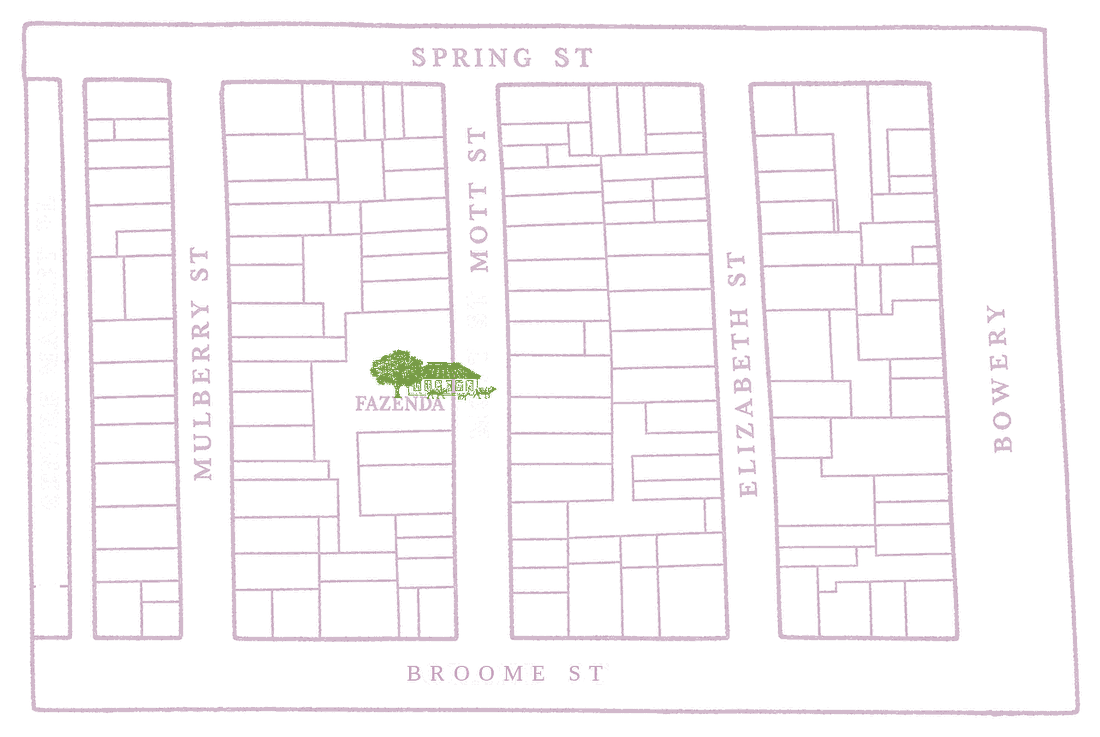
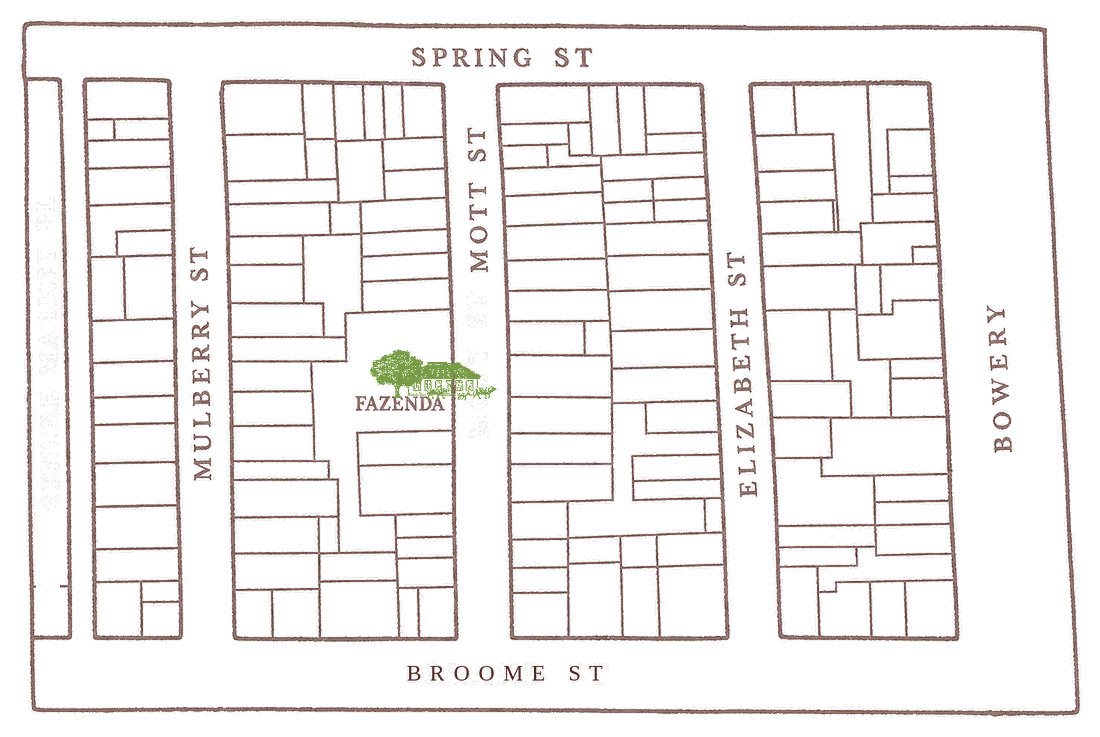
sep12: recolour the map to tobacco and link it to Google Maps

diff --git a/app/sep12/page.tsx b/app/sep12/page.tsx
@@ -26,6 +26,9 @@ const DESCRIPTOR = "MULTIBRAND MENSWEAR STORE + COFFEE SHOP"
 
 const DETAILS = ["MUSIC, COFFEE, FOOD, DRINKS, CLOTHES & MORE", "177 MOTT, 10012"]
 
+/* The map doubles as the directions link. */
+const MAPS_URL = "https://maps.app.goo.gl/BM4pyogg5gLuH4r7A"
+
 export default function Sep12() {
   const [form, setForm] = useState({ name: "", email: "", phone: "" })
   const [status, setStatus] = useState<"idle" | "sending" | "done" | "error">("idle")
@@ -106,14 +109,22 @@ export default function Sep12() {
           ))}
         </div>
 
-        <Image
-          src="/map.png"
-          alt="Map showing Fazenda on Mott Street, between Spring and Broome"
-          width={1100}
-          height={737}
-          priority
-          className="mt-10 w-full max-w-md h-auto"
-        />
+        <a
+          href={MAPS_URL}
+          target="_blank"
+          rel="noopener noreferrer"
+          className="mt-10 w-full max-w-md hover:opacity-70 transition-opacity"
+          aria-label="Open 177 Mott Street in Google Maps"
+        >
+          <Image
+            src="/map.png"
+            alt="Map showing Fazenda on Mott Street, between Spring and Broome"
+            width={1100}
+            height={737}
+            priority
+            className="w-full h-auto"
+          />
+        </a>
 
         <div className="mt-10 flex flex-col gap-3 max-w-sm">
           {INTRO.map((para) => (
